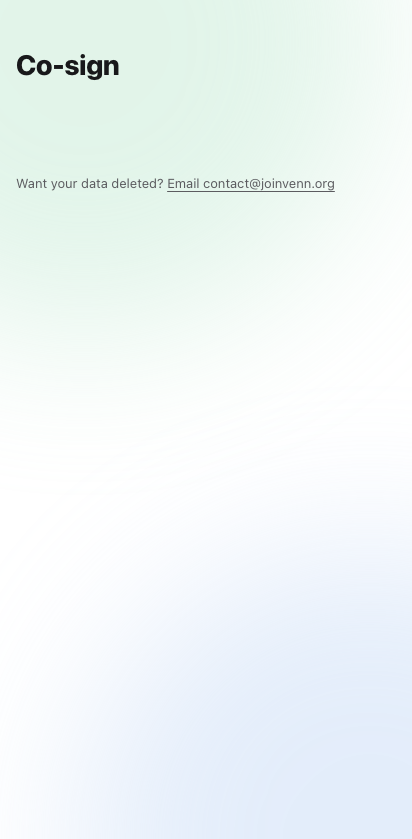
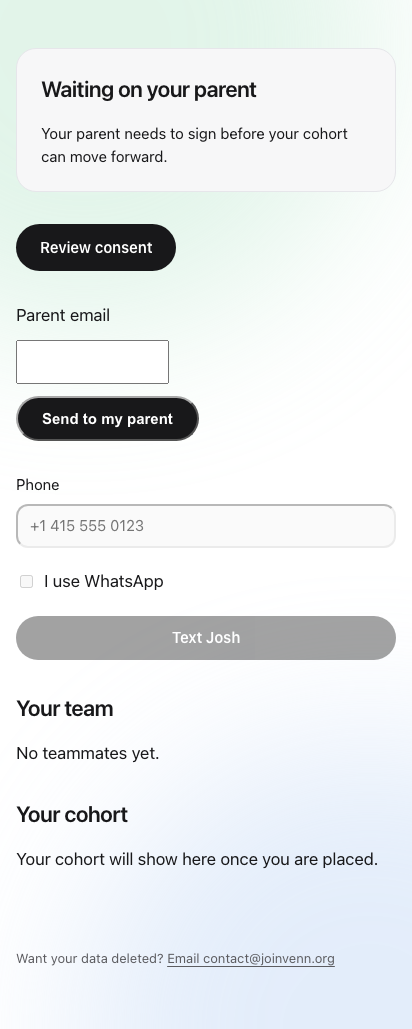
Portal parent co-sign: request, consent page, home wait (#128) (#167)
Closes #128

Claude-Session: https://claude.ai/code/session_015ysJSPNJrTRdDvNdjTjecm

diff --git a/src/lib/portal/home.ts b/src/lib/portal/home.ts
@@ -79,7 +79,7 @@ export async function loadHome(sb: SupabaseClient): Promise<Home> {
   const res = await read<{ id: number; outcome: string; phone: string | null; text_code: string | null; cohort: { name: string; timeline: string | null } | null }>(
     sb.from('results').select('id, outcome, phone, text_code, cohort:cohorts(name, timeline)').eq('status', 'approved').order('approved_at', { ascending: false }).limit(1).maybeSingle() as never);
   const [parents, consents] = await Promise.all([
-    read<{ signed_at: string | null }[]>(sb.from('parent_consents').select('signed_at').limit(1) as never),
+    read<{ signed_at: string | null }[]>(sb.from('parent_consents').select('signed_at') as never),
     read<{ accepted: boolean }[]>(sb.from('consents').select('accepted') as never),
   ]);
   let guidingCount = 0, mouSigned: boolean | null = null, team: { email_key: string }[] = [];
@@ -95,7 +95,7 @@ export async function loadHome(sb: SupabaseClient): Promise<Home> {
   }
   const input = deriveNextStepInput({
     outcome: res?.outcome ?? null, phone: res?.phone ?? null, timeline: res?.cohort?.timeline ?? null, mouSigned,
-    parent: parents && parents.length ? { signed_at: parents[0].signed_at } : null, consents: consents ?? [], guidingCount,
+    parent: parents && parents.length ? { signed_at: parents.find((p) => p.signed_at)?.signed_at ?? null } : null, consents: consents ?? [], guidingCount,
   });
   return { input, result: res ? { id: res.id, outcome: res.outcome } : null, team, cohortName: res?.cohort?.name ?? null, phone: res?.phone ?? null, code: res?.text_code ?? null };
 }

diff --git a/src/pages/portal/parent-request.ts b/src/pages/portal/parent-request.ts
@@ -1,0 +1,23 @@
+import type { APIRoute } from 'astro';
+import { createClient } from '@supabase/supabase-js';
+import { getConsentState } from '../../lib/portal/api.ts';
+import { sendParentLink } from '../../lib/portal/mail.ts';
+import { CONSENT_VERSION } from '../../data/consent.ts';
+
+export const prerender = false;
+
+export const POST: APIRoute = async ({ locals, request, redirect }) => {
+  let sameSite = false;
+  try { sameSite = new URL(request.headers.get('origin') ?? '').host === new URL(request.url).host; } catch { /* malformed */ }
+  if (!sameSite) return new Response(null, { status: 403 });
+  if (!locals.user) return new Response(null, { status: 401 });
+  const email = String((await request.formData()).get('parent_email') ?? '').trim();
+  if (!/^[^\s@]+@[^\s@]+\.[^\s@]+$/.test(email)) return redirect('/portal?parent=invalid', 303);
+  const { data: state } = await getConsentState(locals.supabase, CONSENT_VERSION);
+  if (!state?.minor) return new Response(null, { status: 403 });
+  const svc = createClient(import.meta.env.PUBLIC_SUPABASE_URL, import.meta.env.SUPABASE_SERVICE_ROLE_KEY, { auth: { persistSession: false } });
+  const { data: token, error } = await svc.rpc('request_parent_consent', { p_user_id: locals.user.id, p_parent_email: email });
+  if (error || !token) return redirect('/portal?parent=error', 303);
+  const sent = await sendParentLink(email, `${new URL(request.url).origin}/portal/parent/${token}`);
+  return redirect(sent ? '/portal' : '/portal?parent=error', 303);
+};

diff --git a/src/scripts/portal/parent-request.test.ts b/src/scripts/portal/parent-request.test.ts
@@ -1,0 +1,26 @@
+import test from 'node:test';
+import assert from 'node:assert/strict';
+import { POST } from '../../pages/portal/parent-request.ts';
+
+const call = (locals: object, email: string, origin = 'http://x') =>
+  (POST as any)({
+    locals,
+    request: new Request('http://x/portal/parent-request', { method: 'POST', body: new URLSearchParams({ parent_email: email }), headers: { origin } }),
+    redirect: (to: string, status: number) => new Response(null, { status, headers: { location: to } }),
+  });
+const asUser = (minor: boolean) => ({
+  user: { id: 'u' },
+  supabase: { rpc: async () => ({ data: { done: false, application: true, minor, answers: {} }, error: null }) },
+});
+
+test('cross-site origin is 403 and no session is 401', async () => {
+  assert.equal((await call(asUser(true), 'p@x.org', 'http://evil')).status, 403);
+  assert.equal((await call({ user: null }, 'p@x.org')).status, 401);
+});
+test('a malformed parent email redirects back with parent=invalid', async () => {
+  const res = await call(asUser(true), 'nope');
+  assert.equal(res.headers.get('location'), '/portal?parent=invalid');
+});
+test('a non-minor is rejected with 403 before any token or mail', async () => {
+  assert.equal((await call(asUser(false), 'p@x.org')).status, 403);
+});

diff --git a/src/lib/portal/mail.test.ts b/src/lib/portal/mail.test.ts
@@ -1,0 +1,25 @@
+import test from 'node:test';
+import assert from 'node:assert/strict';
+import { sendParentLink } from './mail.ts';
+
+const calls = () => {
+  const urls: string[] = [];
+  const fetch = (async (u: string) => { urls.push(u); return new Response('{}'); }) as unknown as typeof globalThis.fetch;
+  return { urls, fetch };
+};
+
+test('sends to plus-addressed test inboxes only', async () => {
+  const { urls, fetch } = calls();
+  assert.equal(await sendParentLink('contact+portal-x1@joinvenn.org', 'https://p/l', { fetch, apiToken: 't' }), true);
+  assert.equal(urls.length, 1);
+});
+
+for (const to of ['mom@gmail.com', 'contact@joinvenn.org', 'contact+portal-x@joinvenn.org.evil.com', 'a@b.org,contact+portal-x@joinvenn.org']) {
+  test(`logs and skips ${to}`, async () => {
+    const { urls, fetch } = calls();
+    const logs: string[] = [];
+    assert.equal(await sendParentLink(to, 'https://p/l', { fetch, apiToken: 't', log: (m) => logs.push(m) }), false);
+    assert.equal(urls.length, 0);
+    assert.equal(logs.length, 1);
+  });
+}

diff --git a/src/styles/portal.css b/src/styles/portal.css
@@ -41,3 +41,11 @@
   --dur-3: 480ms;
   --ease: cubic-bezier(0.2, 0.8, 0.2, 1);
 }
+
+.parent-request { display: flex; flex-direction: column; align-items: flex-start; gap: var(--sp-12); margin-top: var(--sp-32); }
+.parent-request label { font-size: var(--fs-15); }
+.parent-request [data-parent-error] { margin: 0; font-size: var(--fs-15); color: var(--err); }
+.parent-request .pill { margin-top: var(--sp-12); border: 0; font-family: inherit; cursor: pointer; }
+.parent-request input, .text-josh input[type='tel'] { width: 100%; box-sizing: border-box; height: 44px; padding: 0 var(--sp-12); border: 1px solid var(--line); border-radius: var(--r-12); background: var(--white); color: var(--ink); font: inherit; font-size: var(--fs-17); }
+.parent-request input:focus-visible, .text-josh input[type='tel']:focus-visible { border-color: var(--ink); outline: 2px solid var(--ink); outline-offset: 1px; }
+.parent-request input:disabled, .text-josh input[type='tel']:disabled { color: var(--muted); }

diff --git a/src/lib/portal/mail.ts b/src/lib/portal/mail.ts
@@ -1,0 +1,19 @@
+import { mailAllowed } from './resend.ts';
+
+export async function sendParentLink(
+  to: string,
+  link: string,
+  deps: { fetch?: typeof fetch; apiToken?: string; log?: (m: string) => void } = {},
+): Promise<boolean> {
+  if (!mailAllowed(to, '')) {
+    (deps.log ?? console.log)(`parent mail skipped (not a test inbox): ${to}`);
+    return false;
+  }
+  const res = await (deps.fetch ?? fetch)('https://api.resend.com/emails', {
+    method: 'POST',
+    headers: { Authorization: `Bearer ${deps.apiToken ?? process.env.RESEND_API_KEY}`, 'Content-Type': 'application/json', 'User-Agent': 'venn' },
+    signal: AbortSignal.timeout(10000),
+    body: JSON.stringify({ from: 'Venn <hello@joinvenn.org>', to, subject: 'Please review a Venn consent form', text: `Your child asked us to send you this link. It works once and expires in 72 hours.\n\n${link}` }),
+  });
+  return res.ok;
+}

diff --git a/src/lib/portal/host.ts b/src/lib/portal/host.ts
@@ -16,7 +16,7 @@ export function portalRewrite(host: string, pathname: string, portalHost?: strin
 
 export function isPublicPortalPath(pathname: string): boolean {
   const p = pathname.length > 1 ? pathname.replace(/\/+$/, '') : pathname;
-  return PUBLIC.includes(p) || p === '/portal/auth' || p.startsWith('/portal/auth/');
+  return PUBLIC.includes(p) || p === '/portal/auth' || p.startsWith('/portal/auth/') || p.startsWith('/portal/parent/');
 }
 
 /** `?next=` value for the login redirect: same-origin paths only, else null. */

diff --git a/docs/adr/0004-minor-detection.md b/docs/adr/0004-minor-detection.md
@@ -3,3 +3,5 @@
 Date: 2026-11-18. Status: accepted.
 
 Under-18 is `applications.level = 'high_school'`, read through `isMinor()` and the `minor` field of `consent_state`. A date-of-birth question would be more exact (a high-school senior can be 18), but `level` is already collected on the apply form, so it adds no new question or stored personal data. Minors continue to the parent co-sign route (#128). Revisit if #128 needs exact age.
+
+The minor rule lives in `isMinor()` for the UI, with one mirroring server-side guard in the security-definer RPC `20261124010000_portal_parent_rpc.sql`.
